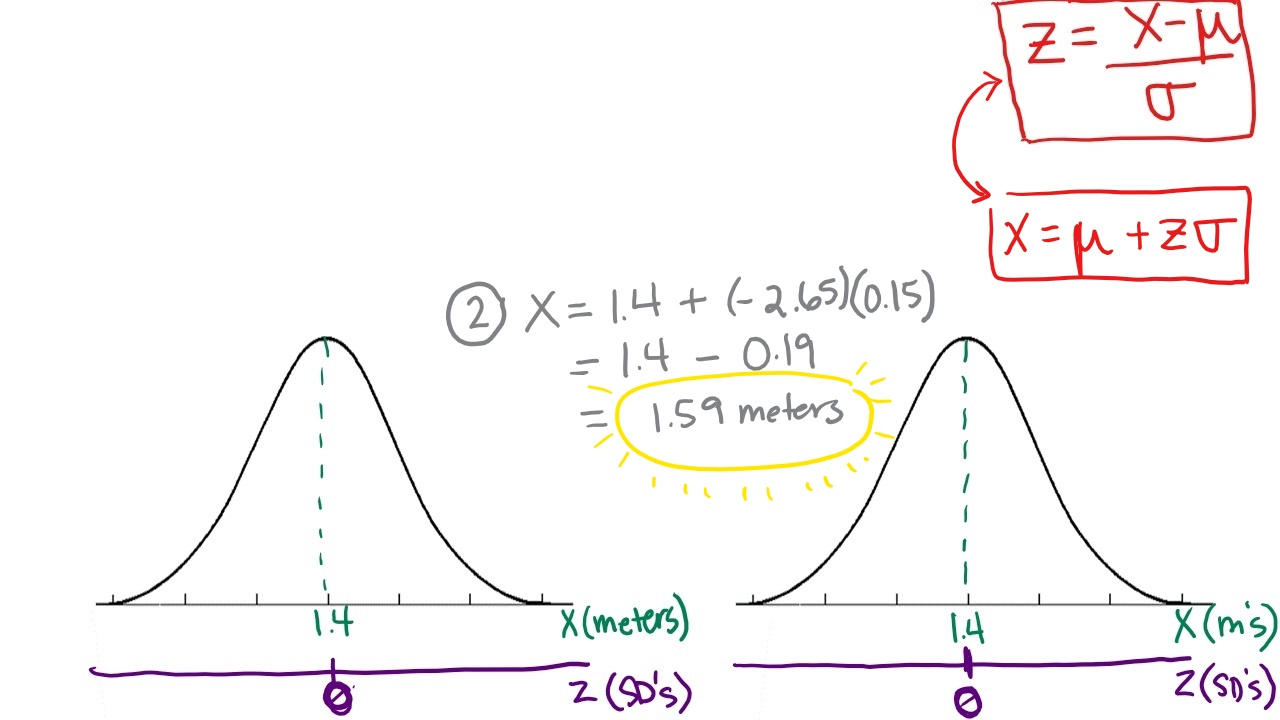
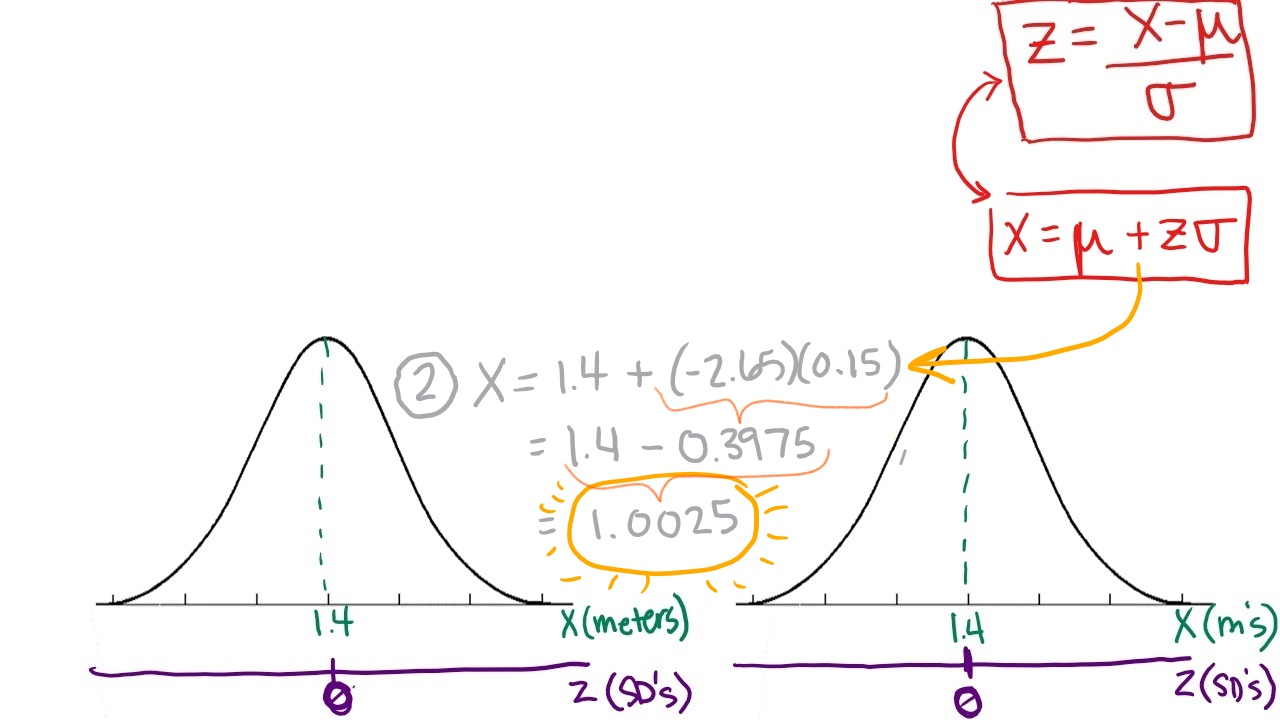
fix error chap 4 slide ex 3-2

Changed region(s): [[0.2812, 0.3667, 0.875, 0.825], [0.875, 0.3667, 0.9062, 0.4583]]

diff --git a/slides/ch4_z_scores.html b/slides/ch4_z_scores.html
@@ -406,7 +406,7 @@ Assume: School's population of students heights are .nicegreen[normal (M = 1.4m,
 
 1. The .dcoral[z-score] for a student 1.63 m tall = .dcoral[**1.53 SDs**]
 
-2. The .nicegreen[height] of a student with a z-socre of -2.65 = .dcoral[**1.59 meters**]
+2. The .nicegreen[height] of a student with a z-socre of -2.65 = .dcoral[**1.00 meters**]
 
 3. The .dcoral[Pecentile Rank] of a student that is 1.51 m tall = ______
 
@@ -424,7 +424,7 @@ Assume: School's population of students heights are .nicegreen[normal (M = 1.4m,
 
 1. The .dcoral[z-score] for a student 1.63 m tall = .dcoral[**1.53 SDs**]
 
-2. The .nicegreen[height] of a student with a z-socre of -2.65 = .dcoral[**1.59 meters**]
+2. The .nicegreen[height] of a student with a z-socre of -2.65 = .dcoral[**1.00 meters**]
 
 3. The .dcoral[Pecentile Rank] of a student that is 1.51 m tall = ______
 
@@ -442,7 +442,7 @@ Assume: School's population of students heights are .nicegreen[normal (M = 1.4m,
 
 1. The .dcoral[z-score] for a student 1.63 m tall = .dcoral[**1.53 SDs**]
 
-2. The .nicegreen[height] of a student with a z-socre of -2.65 = .dcoral[**1.59 meters**]
+2. The .nicegreen[height] of a student with a z-socre of -2.65 = .dcoral[**1.00 meters**]
 
 3. The .dcoral[Pecentile Rank] of a student that is 1.51 m tall = ______
 
@@ -470,7 +470,7 @@ Assume: School's population of students heights are .nicegreen[normal (M = 1.4m,
 
 1. The .dcoral[z-score] for a student 1.63 m tall = .dcoral[**1.53 SDs**]
 
-2. The .nicegreen[height] of a student with a z-socre of -2.65 = .dcoral[**1.59 meters**]
+2. The .nicegreen[height] of a student with a z-socre of -2.65 = .dcoral[**1.00 meters**]
 
 3. The .dcoral[Pecentile Rank] of a student that is 1.51 m tall = ______
 
@@ -488,9 +488,9 @@ Assume: School's population of students heights are .nicegreen[normal (M = 1.4m,
 
 1. The .dcoral[z-score] for a student 1.63 m tall = .dcoral[**1.53 SDs**]
 
-2. The .nicegreen[height] of a student with a z-socre of -2.65 = .dcoral[**1.59 meters**]
+2. The .nicegreen[height] of a student with a z-socre of -2.65 = .dcoral[**1.00 meters**]
 
-3. The .dcoral[Pecentile Rank] of a student that is 1.51 m tall = .dcoral[**81st %tile**]
+3. The .dcoral[Pecentile Rank] of a student that is 1.51 m tall = .dcoral[**81st percentile**]
 
 4. The .dcoral[90th percentile] for students heights = ______
 
@@ -507,9 +507,9 @@ Assume: School's population of students heights are .nicegreen[normal (M = 1.4m,
 
 1. The .dcoral[z-score] for a student 1.63 m tall = .dcoral[**1.53 SDs**]
 
-2. The .nicegreen[height] of a student with a z-socre of -2.65 = .dcoral[**1.59 meters**]
+2. The .nicegreen[height] of a student with a z-socre of -2.65 = .dcoral[**1.00 meters**]
 
-3. The .dcoral[Pecentile Rank] of a student that is 1.51 m tall = .dcoral[**81st %tile**]
+3. The .dcoral[Pecentile Rank] of a student that is 1.51 m tall = .dcoral[**81st percentile**]
 
 4. The .dcoral[90th percentile] for students heights = ______
 
@@ -531,9 +531,9 @@ Assume: School's population of students heights are .nicegreen[normal (M = 1.4m,
 
 1. The .dcoral[z-score] for a student 1.63 m tall = .dcoral[**1.53 SDs**]
 
-2. The .nicegreen[height] of a student with a z-socre of -2.65 = .dcoral[**1.59 meters**]
+2. The .nicegreen[height] of a student with a z-socre of -2.65 = .dcoral[**1.00 meters**]
 
-3. The .dcoral[Pecentile Rank] of a student that is 1.51 m tall = .dcoral[**81st %tile**]
+3. The .dcoral[Pecentile Rank] of a student that is 1.51 m tall = .dcoral[**81st percentile**]
 
 4. The .dcoral[90th percentile] for students heights = ______
 
@@ -550,9 +550,9 @@ Assume: School's population of students heights are .nicegreen[normal (M = 1.4m,
 
 1. The .dcoral[z-score] for a student 1.63 m tall = .dcoral[**1.53 SDs**]
 
-2. The .nicegreen[height] of a student with a z-socre of -2.65 = .dcoral[**1.59 meters**]
+2. The .nicegreen[height] of a student with a z-socre of -2.65 = .dcoral[**1.00 meters**]
 
-3. The .dcoral[Pecentile Rank] of a student that is 1.51 m tall = .dcoral[**81st %tile**]
+3. The .dcoral[Pecentile Rank] of a student that is 1.51 m tall = .dcoral[**81st percentile**]
 
 4. The .dcoral[90th percentile] for students heights = .dcoral[**1.59 meters**]
 
